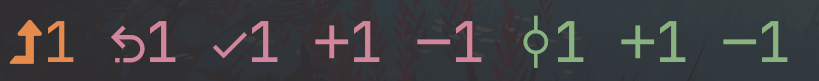
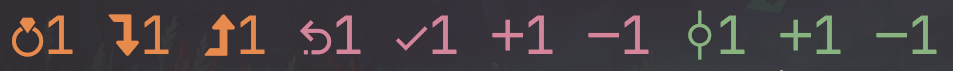
update readme

Changed region(s): [[0.0, 0.1972, 0.6105, 0.7887], [0.6105, 0.1408, 1.0, 0.8451], [0.7937, 0.9859, 0.8242, 1.0]]

diff --git a/README.md b/README.md
@@ -13,7 +13,7 @@ function fish_prompt
 end
 ```
 
-By default, octussy will print this output to stdout (if you had every single type of change in your current git directory), without a newline at the end:
+By default, octussy will print this output to stdout (if you had every single type of change in your current git directory), with a space but not a newline at the end:
 
 `octussy --test`
 
@@ -21,14 +21,16 @@ By default, octussy will print this output to stdout (if you had every single ty
 
 The meanings of every element in order:
 
+1. Stashes
+1. Commits you fetched but haven't pulled
 1. Commits you haven't yet pushed to the remote
-2. Staged renamed files
-3. Staged modifications
-4. Staged new files
-5. Staged deletions
-6. Unstaged modifications
-7. Unstaged new files
-8. Unstaged deletions
+1. Staged renamed files
+1. Staged modifications
+1. Staged new files
+1. Staged deletions
+1. Unstaged modifications
+1. Unstaged new files
+1. Unstaged deletions
 
 It uses nerd font symbols for some of the elements.
 
@@ -40,9 +42,9 @@ If you don't want to use a nerd font, use the `--ascii-symbols` flag:
 
 Only the elements that are at least one are printed, making testing how octussy fully looks kinda annoying. That's why the `--test` flag exists – you get to see the entire output of octussy regardless of how many changes your current git directory actually has.
 
-By default, unpushed commits are shown in yellow, staged changes in green, and unstaged changes in cyan, following your terminal's color scheme.
+By default, commits (stashes, unpulled, unpushed) are shown in yellow, staged changes in green, and unstaged changes in cyan, following your terminal's color scheme.
 
-You can change each category's default to either one of these 8 colors:
+You can change each category's default to any one of these 8 colors:
 
 black, red, green, yellow, blue, purple, cyan, white
 
@@ -60,13 +62,13 @@ You can then override the default for specific elements, if you want to: `octuss
 
 ![](img/unstaged-blue-deleted-red.png)
 
-Same thing applies to the glyphs used: `octussy --symbol-unpushed  --symbol-deleted `
+Same thing applies to the [glyphs used](https://www.nerdfonts.com/cheat-sheet): `octussy --symbol-unpushed  --symbol-deleted `
 
 ![](img/symbol-rabbit-unpushed-spider-deleted.png)
 
-Interestingly, you're not restricted to a single character. So it could be a whole word, if you want to!: `octussy --symbol-unpushed commits`
+Interestingly, you're not restricted to a single character. So it could be a whole word, if you want to!: `octussy --symbol-unpushed meow`
 
-![](img/unpushed-commits-word.png)
+![](img/unpushed-custom-word.png)
 
 A similar thing happens for colors: `octussy --color-staged-deleted '87FF5F this is my brigher green that I want to use for this element'`
 
@@ -94,30 +96,30 @@ Usage: octussy [OPTIONS]
 Options:
   -v, --verbose
           octussy doesn't print errors by default, because it's supposed to be in your shell prompt constantly.
-          
+
           When you do want to see the errors, use this flag.
 
       --ascii-symbols
           octussy uses nerd font symbols for some elements by default.
-          
+
           Use this flag if you don't use a nerd font.
-          
+
           You can see both the nerd and ascii defaults for every category later down in this help.
 
       --test
           Will print every single element.
-          
+
           Helpful for testing the output without having to be in a git directory with certain changes.
 
-      --color-unpushed <COLOR_UNPUSHED>
+      --color-all-commits <COLOR_ALL_COMMITS>
           [default: yellow]
-          
+
           For every color, you can either specify one of the main 8 colors from your terminal color scheme:
-          
+
           black, red, green, yellow, blue, purple, cyan, white
-          
+
           Or a hex code, without the # symbol like: FFAFD7
-          
+
           For both hex codes and color names, the cAsE doesn't matter
 
       --color-all-staged <COLOR_ALL_STAGED>
@@ -125,6 +127,15 @@ Options:
 
       --color-all-unstaged <COLOR_ALL_UNSTAGED>
           [default: cyan]
+
+      --color-stashed <COLOR_STASHED>
+          [default: --color-all-commits]
+
+      --color-unpulled <COLOR_UNPULLED>
+          [default: --color-all-commits]
+
+      --color-unpushed <COLOR_UNPUSHED>
+          [default: --color-all-commits]
 
       --color-renamed <COLOR_RENAMED>
           [default: --color-all-staged]
@@ -146,6 +157,12 @@ Options:
 
       --color-deleted <COLOR_DELETED>
           [default: --color-all-unstaged]
+
+      --symbol-stashed <SYMBOL_STASHED>
+          [default:  or *]
+
+      --symbol-unpulled <SYMBOL_UNPULLED>
+          [default:  or <]
 
       --symbol-unpushed <SYMBOL_UNPUSHED>
           [default:  or >]
